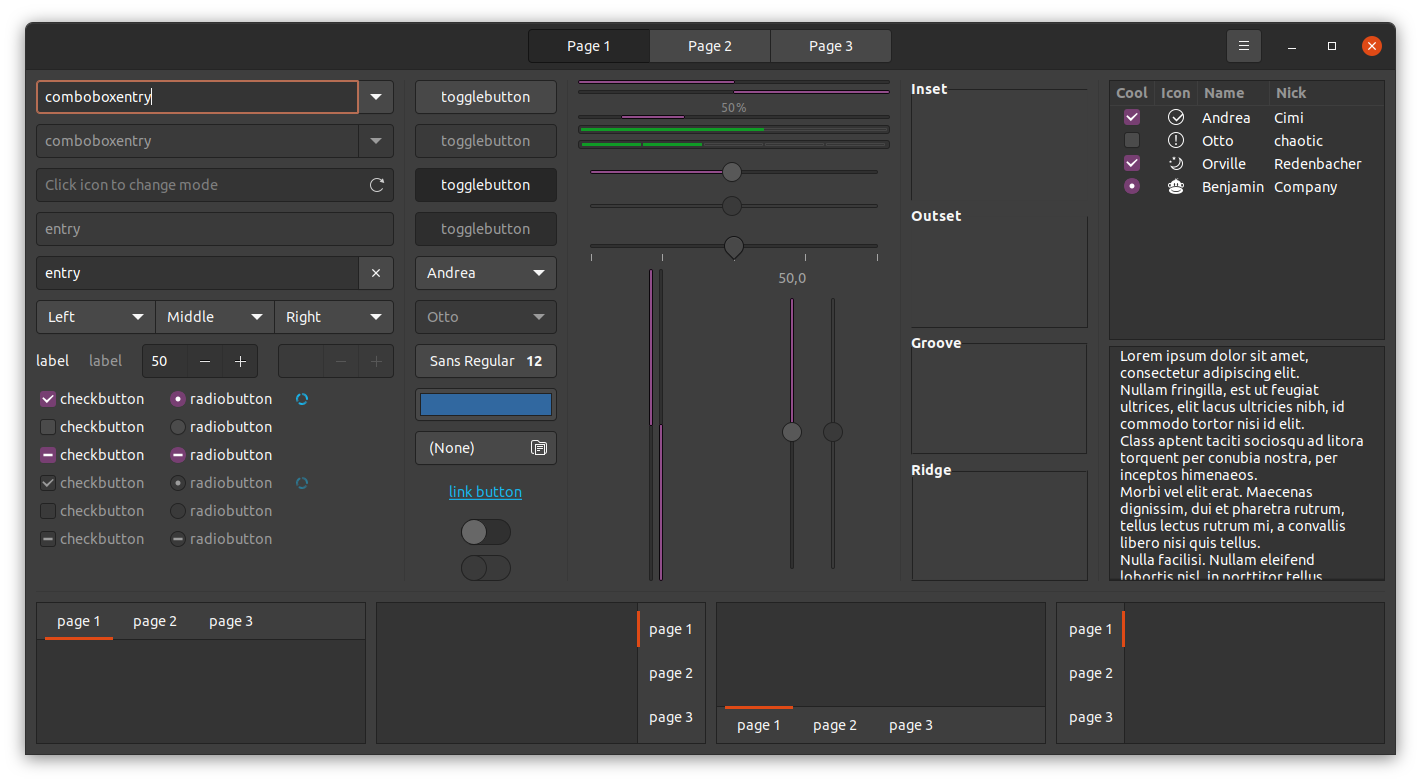
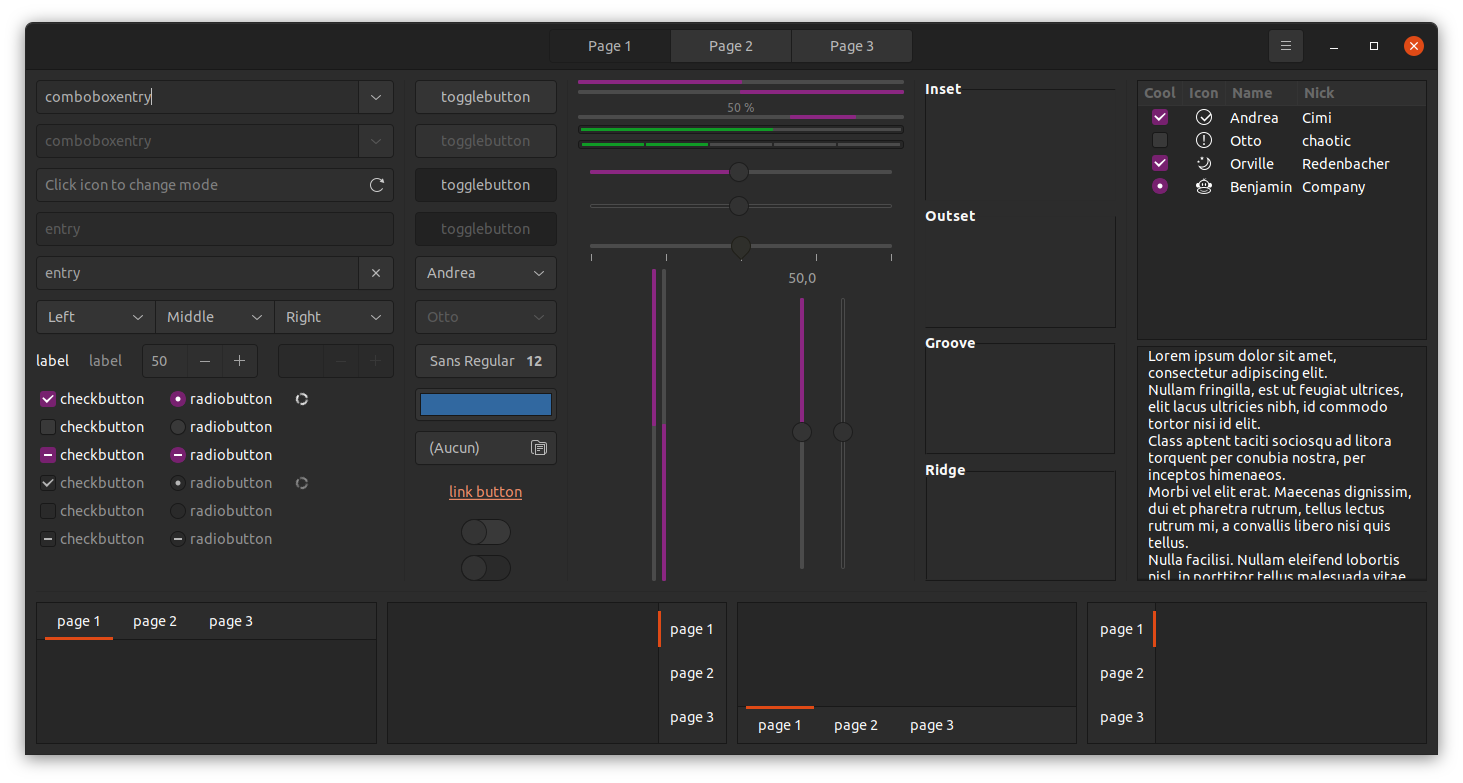
Update README (#3085)
* Drop inverted screenshots from README

* Drop snap build status

* Update screenshots

diff --git a/README.md b/README.md
@@ -1,7 +1,5 @@
 # Ubuntu Yaru theme suite
 
-Snap build status: [![Build Status](https://travis-ci.org/ubuntu/yaru.svg?branch=master)](https://travis-ci.org/ubuntu/yaru)
-
 Yaru is the default theme for Ubuntu, backed by the community.
 
 It contains:
@@ -9,18 +7,14 @@ It contains:
  * a light and dark GTK theme (gtk2 and gtk3) based on the [upstream Adwaita Gtk theme](https://github.com/GNOME/gtk/tree/gtk-3-24/gtk/theme/Adwaita)
  * an icon & cursor theme, derived from the Unity8 Suru icons and [Suru icon](https://snwh.org/suru) theme
  * a sound theme, combining sounds from the [WoodenBeaver](https://github.com/madsrh/WoodenBeaver) and [Touch-Remix](https://github.com/madsrh/TouchRemix) sound themes.
- 
-![Files](.github/readme_pics/nautilus-def.png)
-
-![FilesDark](.github/readme_pics/nautilus-dark.png)
 
 ![FilesLight](.github/readme_pics/nautilus-light.png)
 
-![widgetfactory](.github/readme_pics/factory-def.png)
-
-![widgetfactorydark](.github/readme_pics/factory-dark.png)
+![FilesDark](.github/readme_pics/nautilus-dark.png)
 
 ![widgetfactorylight](.github/readme_pics/factory-light.png)
+
+![widgetfactorydark](.github/readme_pics/factory-dark.png)
 
 ![ShellPopups](.github/readme_pics/shell-light.png)
 
